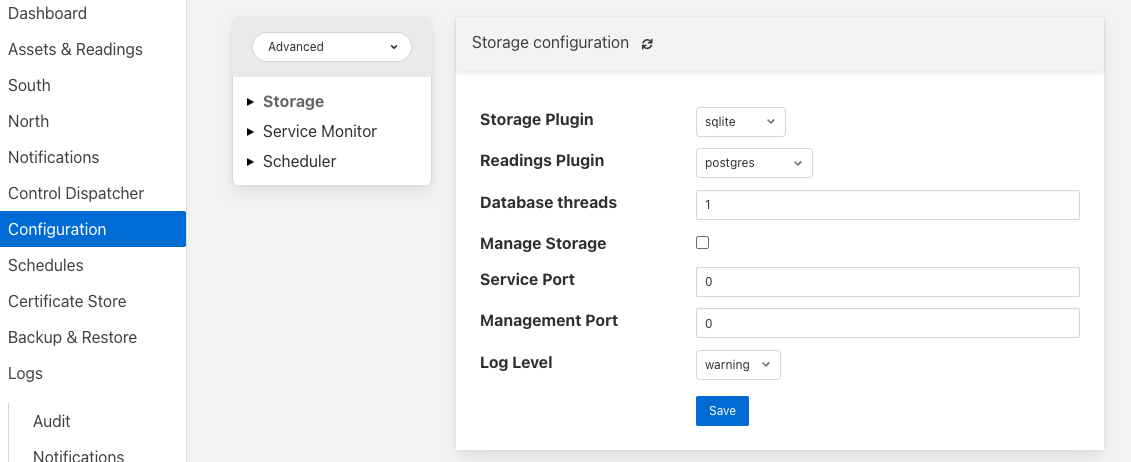
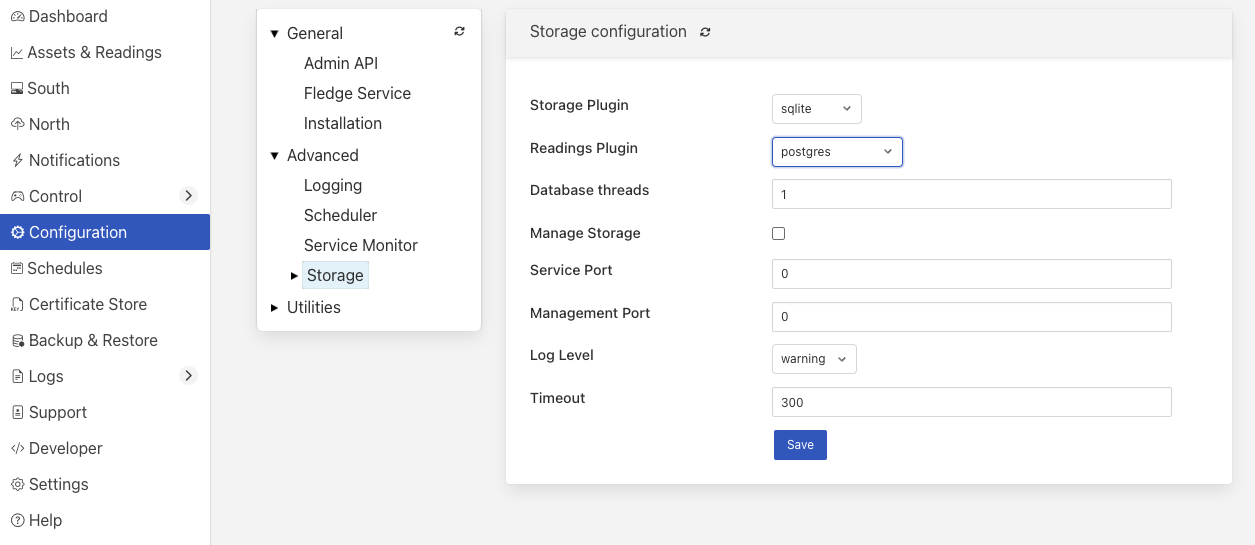
FOGL-8626 Add timeout configuration option. Also resolved FOGL-8203 (#1331)
* FOGL-8626 Add timeout configuration option. Also resolved FOGL-8203
issue with update of storage log level.

* Add comment

* Fix adding new values from default storage configuration

---------

diff --git a/C/services/storage/configuration.cpp b/C/services/storage/configuration.cpp
@@ -77,6 +77,16 @@ static const char *defaultConfiguration = QUOTE({
 		"displayName" : "Log Level",
 		"options" : [ "error", "warning", "info", "debug" ],
 		"order" : "7"
+	},
+	"timeout" : {
+		"value" : "60",
+		"default" : "60",
+		"description" : "Server request timeout, expressed in seconds",
+		"type" : "integer",
+		"displayName" : "Timeout",
+		"order" : "8",
+		"minimum" : "5",
+		"maximum" : "3600"
 	}
 });
 
@@ -95,6 +105,10 @@ StorageConfiguration::StorageConfiguration()
 	document = new Document();
 	readCache();
 	checkCache();
+	if (hasValue("logLevel"))
+	{
+		logger->setMinLevel(getValue("logLevel"));
+	}
 }
 
 /**
@@ -312,7 +326,52 @@ DefaultConfigCategory *StorageConfiguration::getDefaultCategory()
 void StorageConfiguration::checkCache()
 {
 bool forceUpdate = false;
+bool writeCacheRequired = false;
 
+	/*
+	 * If the cached version of the configuration that has been read in
+	 * does not contain an item in the default configuration, then copy
+	 * that item from the default configuration.
+	 *
+	 * This allows new tiems to be added to the configuration and populated
+	 * in the cache on first restart.
+	 */
+	Document *newdoc = new Document();
+	newdoc->Parse(defaultConfiguration);
+	if (newdoc->HasParseError())
+	{
+		logger->error("Default configuration failed to parse. %s at %d",
+				GetParseError_En(document->GetParseError()),
+				newdoc->GetErrorOffset());
+	}
+	else
+	{
+		for (Value::ConstMemberIterator itr = newdoc->MemberBegin();
+				itr != newdoc->MemberEnd(); ++itr)
+		{
+			const char *name = itr->name.GetString();
+			Value &newval = (*newdoc)[name];
+			if (!hasValue(name))
+			{
+				logger->warn("Adding storage configuration item %s from defaults", name);
+				Document::AllocatorType& a = document->GetAllocator();
+				Value copy(name, a);
+				copy.CopyFrom(newval, a);
+				Value n(name, a);
+				document->AddMember(n, copy, a);
+				writeCacheRequired = true;
+			}
+		}
+	}
+	delete newdoc;
+
+	if (writeCacheRequired)
+	{
+		// We added a new member
+		writeCache();
+	}
+
+	// Upgrade step to add eumeration for plugin
 	if (document->HasMember("plugin"))
 	{
 		Value& item = (*document)["plugin"];
@@ -327,8 +386,11 @@ bool forceUpdate = false;
 		}
 	}
 
+	// Cache is from before we used an enumeration for the plugin, force upgrade
+	// steps
 	if (forceUpdate == false && document->HasMember("plugin"))
 	{
+		logger->info("Adding database plugin enumerations");
 		Value& item = (*document)["plugin"];
 		if (item.HasMember("type"))
 		{
@@ -349,7 +411,7 @@ bool forceUpdate = false;
 	}
 
 	logger->info("Storage configuration cache is not up to date");
-	Document *newdoc = new Document();
+	newdoc = new Document();
 	newdoc->Parse(defaultConfiguration);
 	if (newdoc->HasParseError())
 	{
@@ -357,28 +419,31 @@ bool forceUpdate = false;
 				GetParseError_En(document->GetParseError()),
 				newdoc->GetErrorOffset());
 	}
-	for (Value::ConstMemberIterator itr = newdoc->MemberBegin();
-				itr != newdoc->MemberEnd(); ++itr)
+	else
 	{
-		const char *name = itr->name.GetString();
-		Value &newval = (*newdoc)[name];
-		if (hasValue(name))
+		for (Value::ConstMemberIterator itr = newdoc->MemberBegin();
+				itr != newdoc->MemberEnd(); ++itr)
 		{
-			const char *val = getValue(name);
-			newval["value"].SetString(strdup(val), strlen(val));
-			if (strcmp(name, "plugin") == 0)
+			const char *name = itr->name.GetString();
+			Value &newval = (*newdoc)[name];
+			if (hasValue(name))
 			{
-				newval["default"].SetString(strdup(val), strlen(val));
-				logger->warn("Set default of %s to %s", name, val);
-			}
-			if (strcmp(name, "readingPlugin") == 0)
-			{
-				if (strlen(val) == 0)
+				const char *val = getValue(name);
+				newval["value"].SetString(strdup(val), strlen(val));
+				if (strcmp(name, "plugin") == 0)
 				{
-					val = "Use main plugin";
+					newval["default"].SetString(strdup(val), strlen(val));
+					logger->warn("Set default of %s to %s", name, val);
 				}
-				newval["default"].SetString(strdup(val), strlen(val));
-				logger->warn("Set default of %s to %s", name, val);
+				if (strcmp(name, "readingPlugin") == 0)
+				{
+					if (strlen(val) == 0)
+					{
+						val = "Use main plugin";
+					}
+					newval["default"].SetString(strdup(val), strlen(val));
+					logger->warn("Set default of %s to %s", name, val);
+				}
 			}
 		}
 	}

diff --git a/C/services/storage/storage.cpp b/C/services/storage/storage.cpp
@@ -141,6 +141,7 @@ string	       logLevel = "warning";
 	}
 
 	StorageService service(myName);
+	service.setLogLevel(logLevel);
 	Logger::getLogger()->setMinLevel(logLevel);
 	if (returnPlugin)
 	{
@@ -228,15 +229,26 @@ unsigned short servicePort;
 	}
 	if (config->hasValue("logLevel"))
 	{
-		logger->setMinLevel(config->getValue("logLevel"));
+		m_logLevel = config->getValue("logLevel");
 	}
 	else
 	{
-		logger->setMinLevel("warning");
+		m_logLevel = "warning";
+	}
+	logger->setMinLevel(m_logLevel);
+
+	if (config->hasValue("timeout"))
+	{
+		m_timeout = strtol(config->getValue("timeout"), NULL, 10);
+	}
+	else
+	{
+		m_timeout = 5;
 	}
 
 
 	api = new StorageApi(servicePort, threads);
+	api->setTimeout(m_timeout);
 }
 
 /**
@@ -543,6 +555,21 @@ void StorageService::configChange(const string& categoryName, const string& cate
 	if (!categoryName.compare(STORAGE_CATEGORY))
 	{
 		config->updateCategory(category);
+
+		if (m_logLevel.compare(config->getValue("logLevel")))
+		{
+			m_logLevel = config->getValue("logLevel");
+			logger->setMinLevel(m_logLevel);
+		}
+		if (config->hasValue("timeout"))
+		{
+			long timeout = strtol(config->getValue("timeout"), NULL, 10);
+			if (timeout != m_timeout)
+			{
+				api->setTimeout(timeout);
+				m_timeout = timeout;
+			}
+		}
 		return;
 	}
 	if (!categoryName.compare(getPluginName()))

diff --git a/C/services/storage/include/storage_service.h b/C/services/storage/include/storage_service.h
@@ -40,6 +40,10 @@ class StorageService : public ServiceHandler {
 		string			getPluginName();
 		string			getPluginManagedStatus();
 		string			getReadingPluginName();
+		void			setLogLevel(std::string level)
+					{
+						m_logLevel = level;
+					};
 	private:
 		const string&		m_name;
 		bool 			loadPlugin();
@@ -50,5 +54,7 @@ class StorageService : public ServiceHandler {
 		StoragePlugin 		*readingPlugin;
 		bool			m_shutdown;
 		bool			m_requestRestart;
+		std::string		m_logLevel;
+		long			m_timeout;
 };
 #endif

diff --git a/C/services/storage/storage_api.cpp b/C/services/storage/storage_api.cpp
@@ -393,6 +393,7 @@ StorageApi::StorageApi(const unsigned short port, const unsigned int threads) : 
 	m_server = new HttpServer();
 	m_server->config.port = port;
 	m_server->config.thread_pool_size = threads;
+	m_server->config.timeout_request = 60;
 	StorageApi::m_instance = this;
 }
 

diff --git a/C/services/storage/include/storage_api.h b/C/services/storage/include/storage_api.h
@@ -100,6 +100,13 @@ public:
 
 	void	printList();
 	bool	createSchema(const std::string& schema);
+	void	setTimeout(long timeout)
+		{
+			if (m_server)
+			{
+				m_server->config.timeout_request = timeout;
+			}
+		};
 
 public:
 	std::atomic<int>        m_workers_count;

diff --git a/docs/tuning_fledge.rst b/docs/tuning_fledge.rst
@@ -474,6 +474,8 @@ The storage plugins to use can be selected in the *Advanced* section of the *Con
 
 - **Log Level**: This control the level at which the storage plugin will output logs. 
 
+- **Timeout**: Sets the timeout value in seconds for each request to the storage layer. This causes a timeout error to be returned to a client if a storage call takes longer than the specified value.
+
 Changing will be saved once the *save* button is pressed. Fledge uses a mechanism whereby this data is not only saved in the configuration database, but also cached to a file called *storage.json* in the *etc* directory of the data directory. This is required such that Fledge can find the configuration database during the boot process. If the configuration becomes corrupt for some reason simply removing this file and restarting Fledge will cause the default configuration to be restored. The location of the Fledge data directory will depend upon how you installed Fledge and the environment variables used to run Fledge.
 
 - Installation from a package will usually put the data directory in */usr/local/fledge/data*. However this can be overridden by setting the *$FLEDGE_DATA* environment variable to point at a different location.
